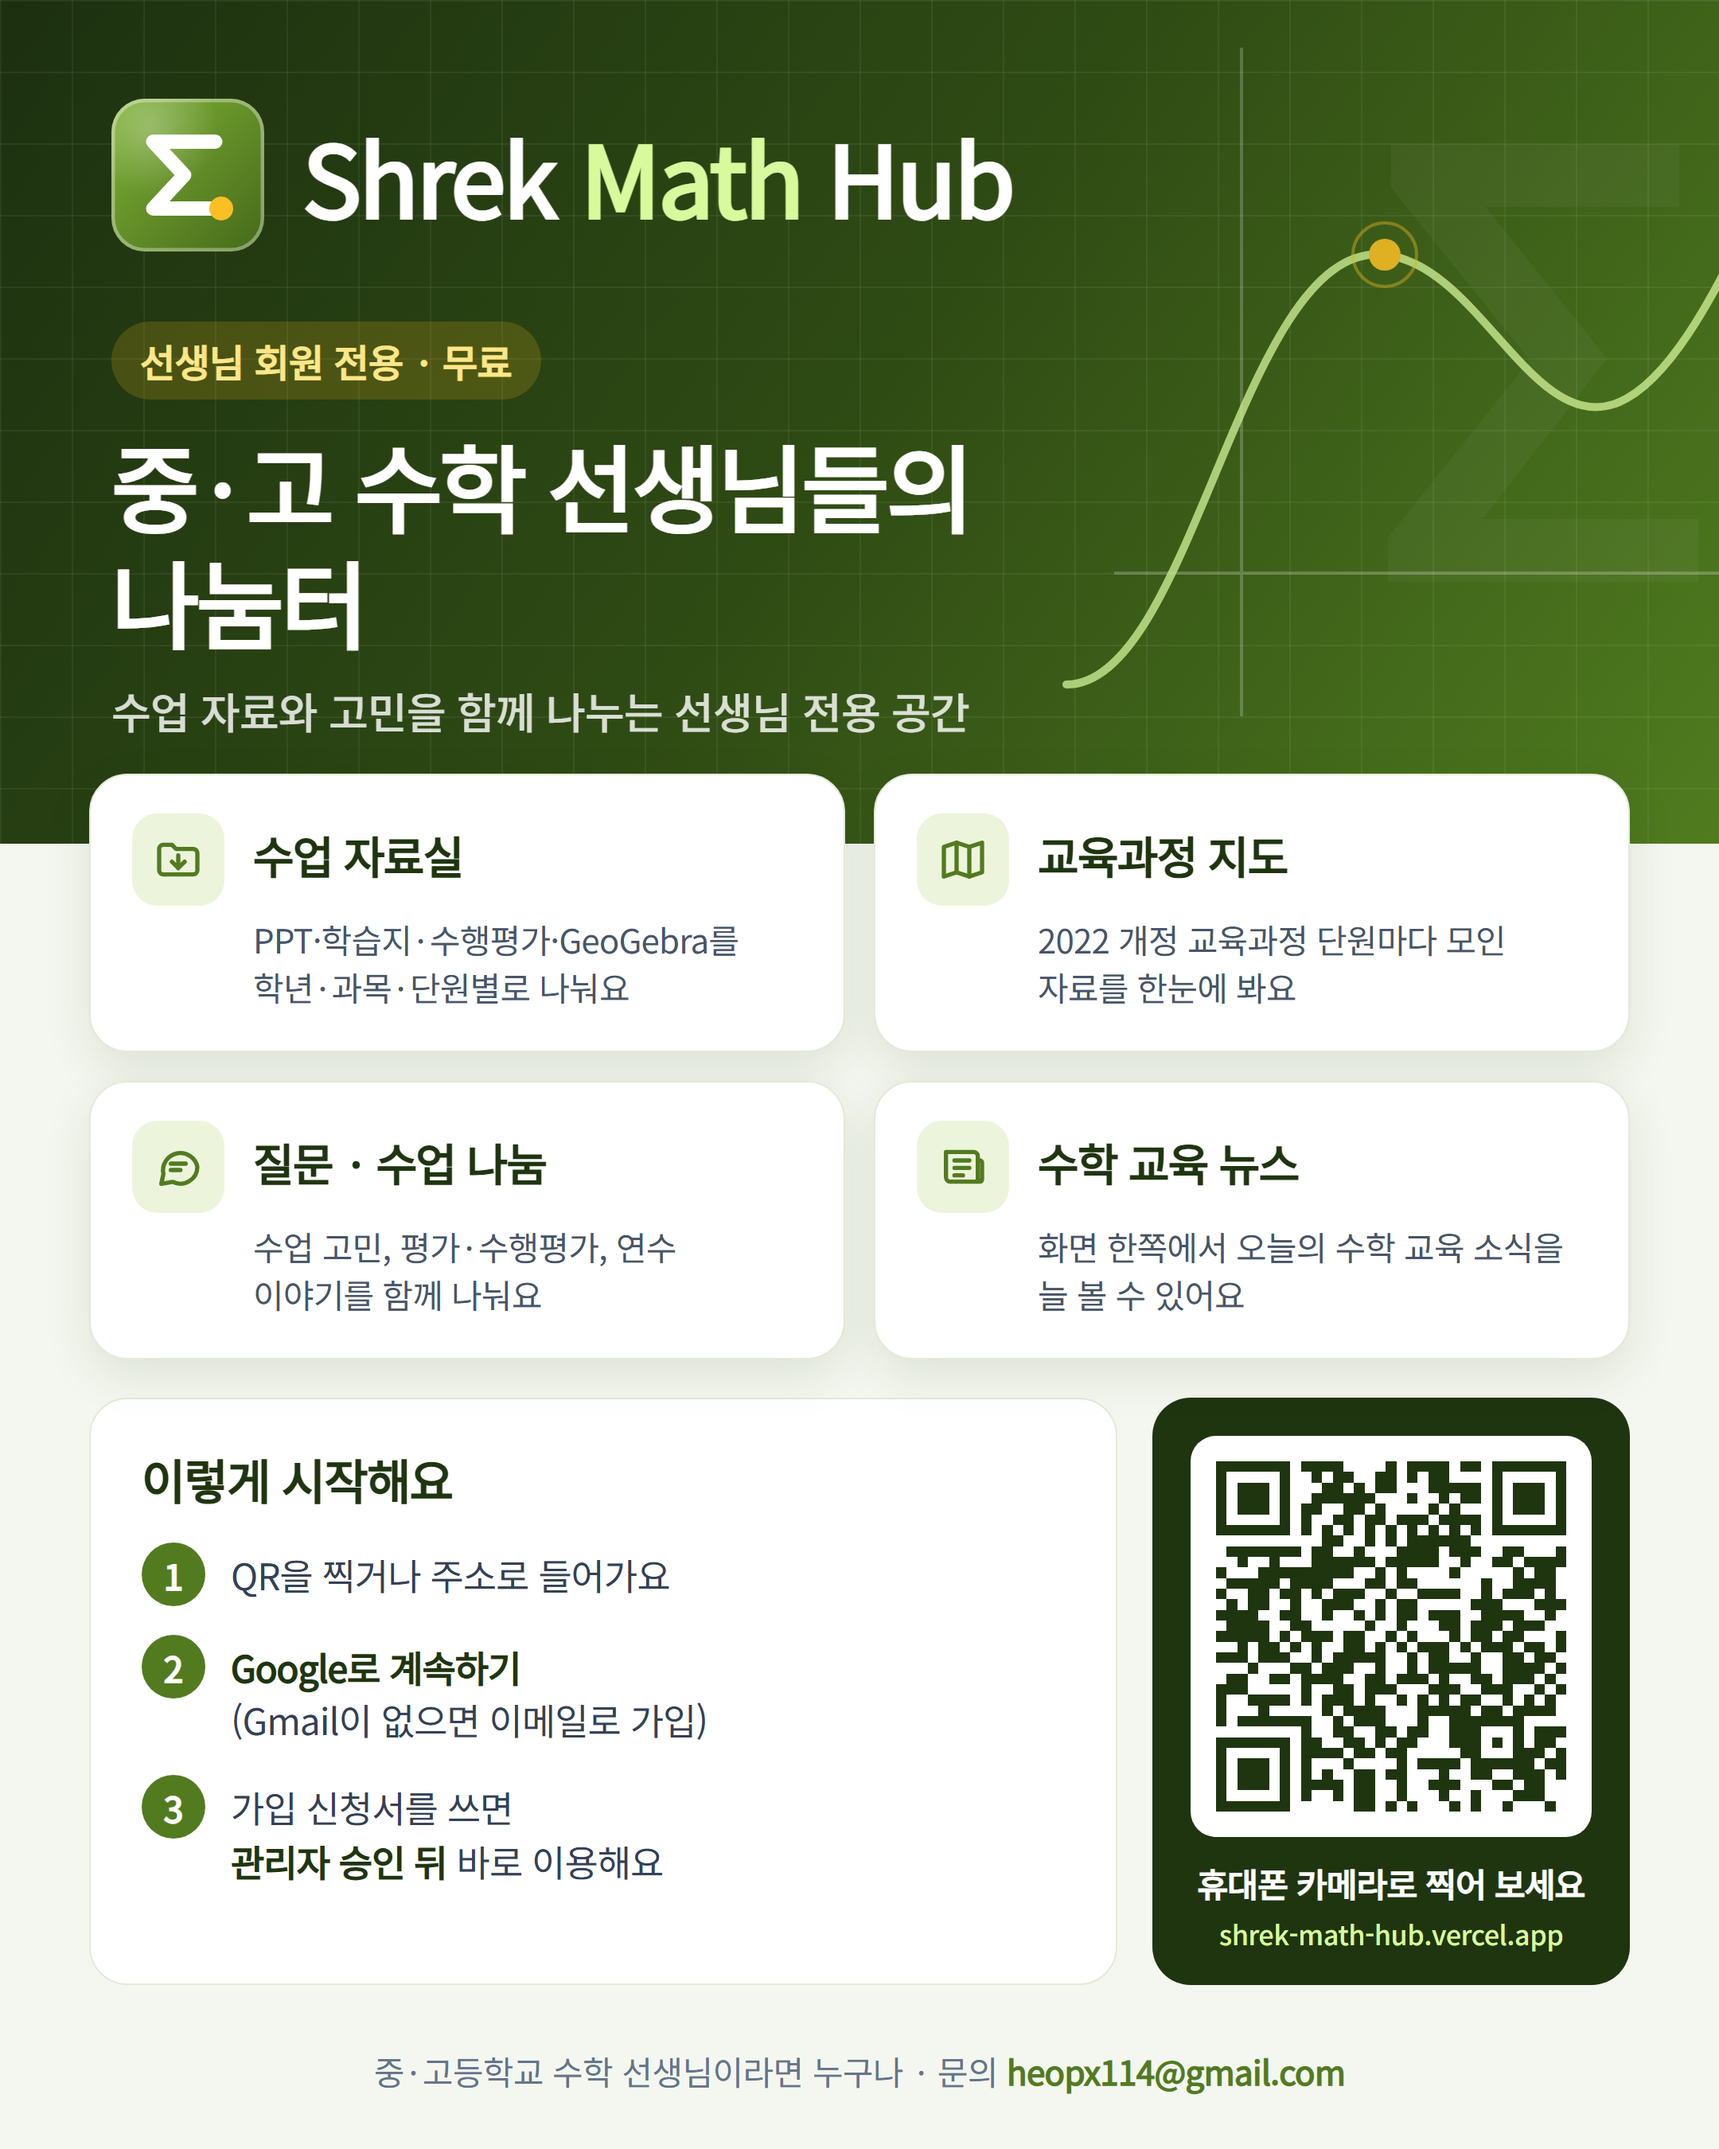
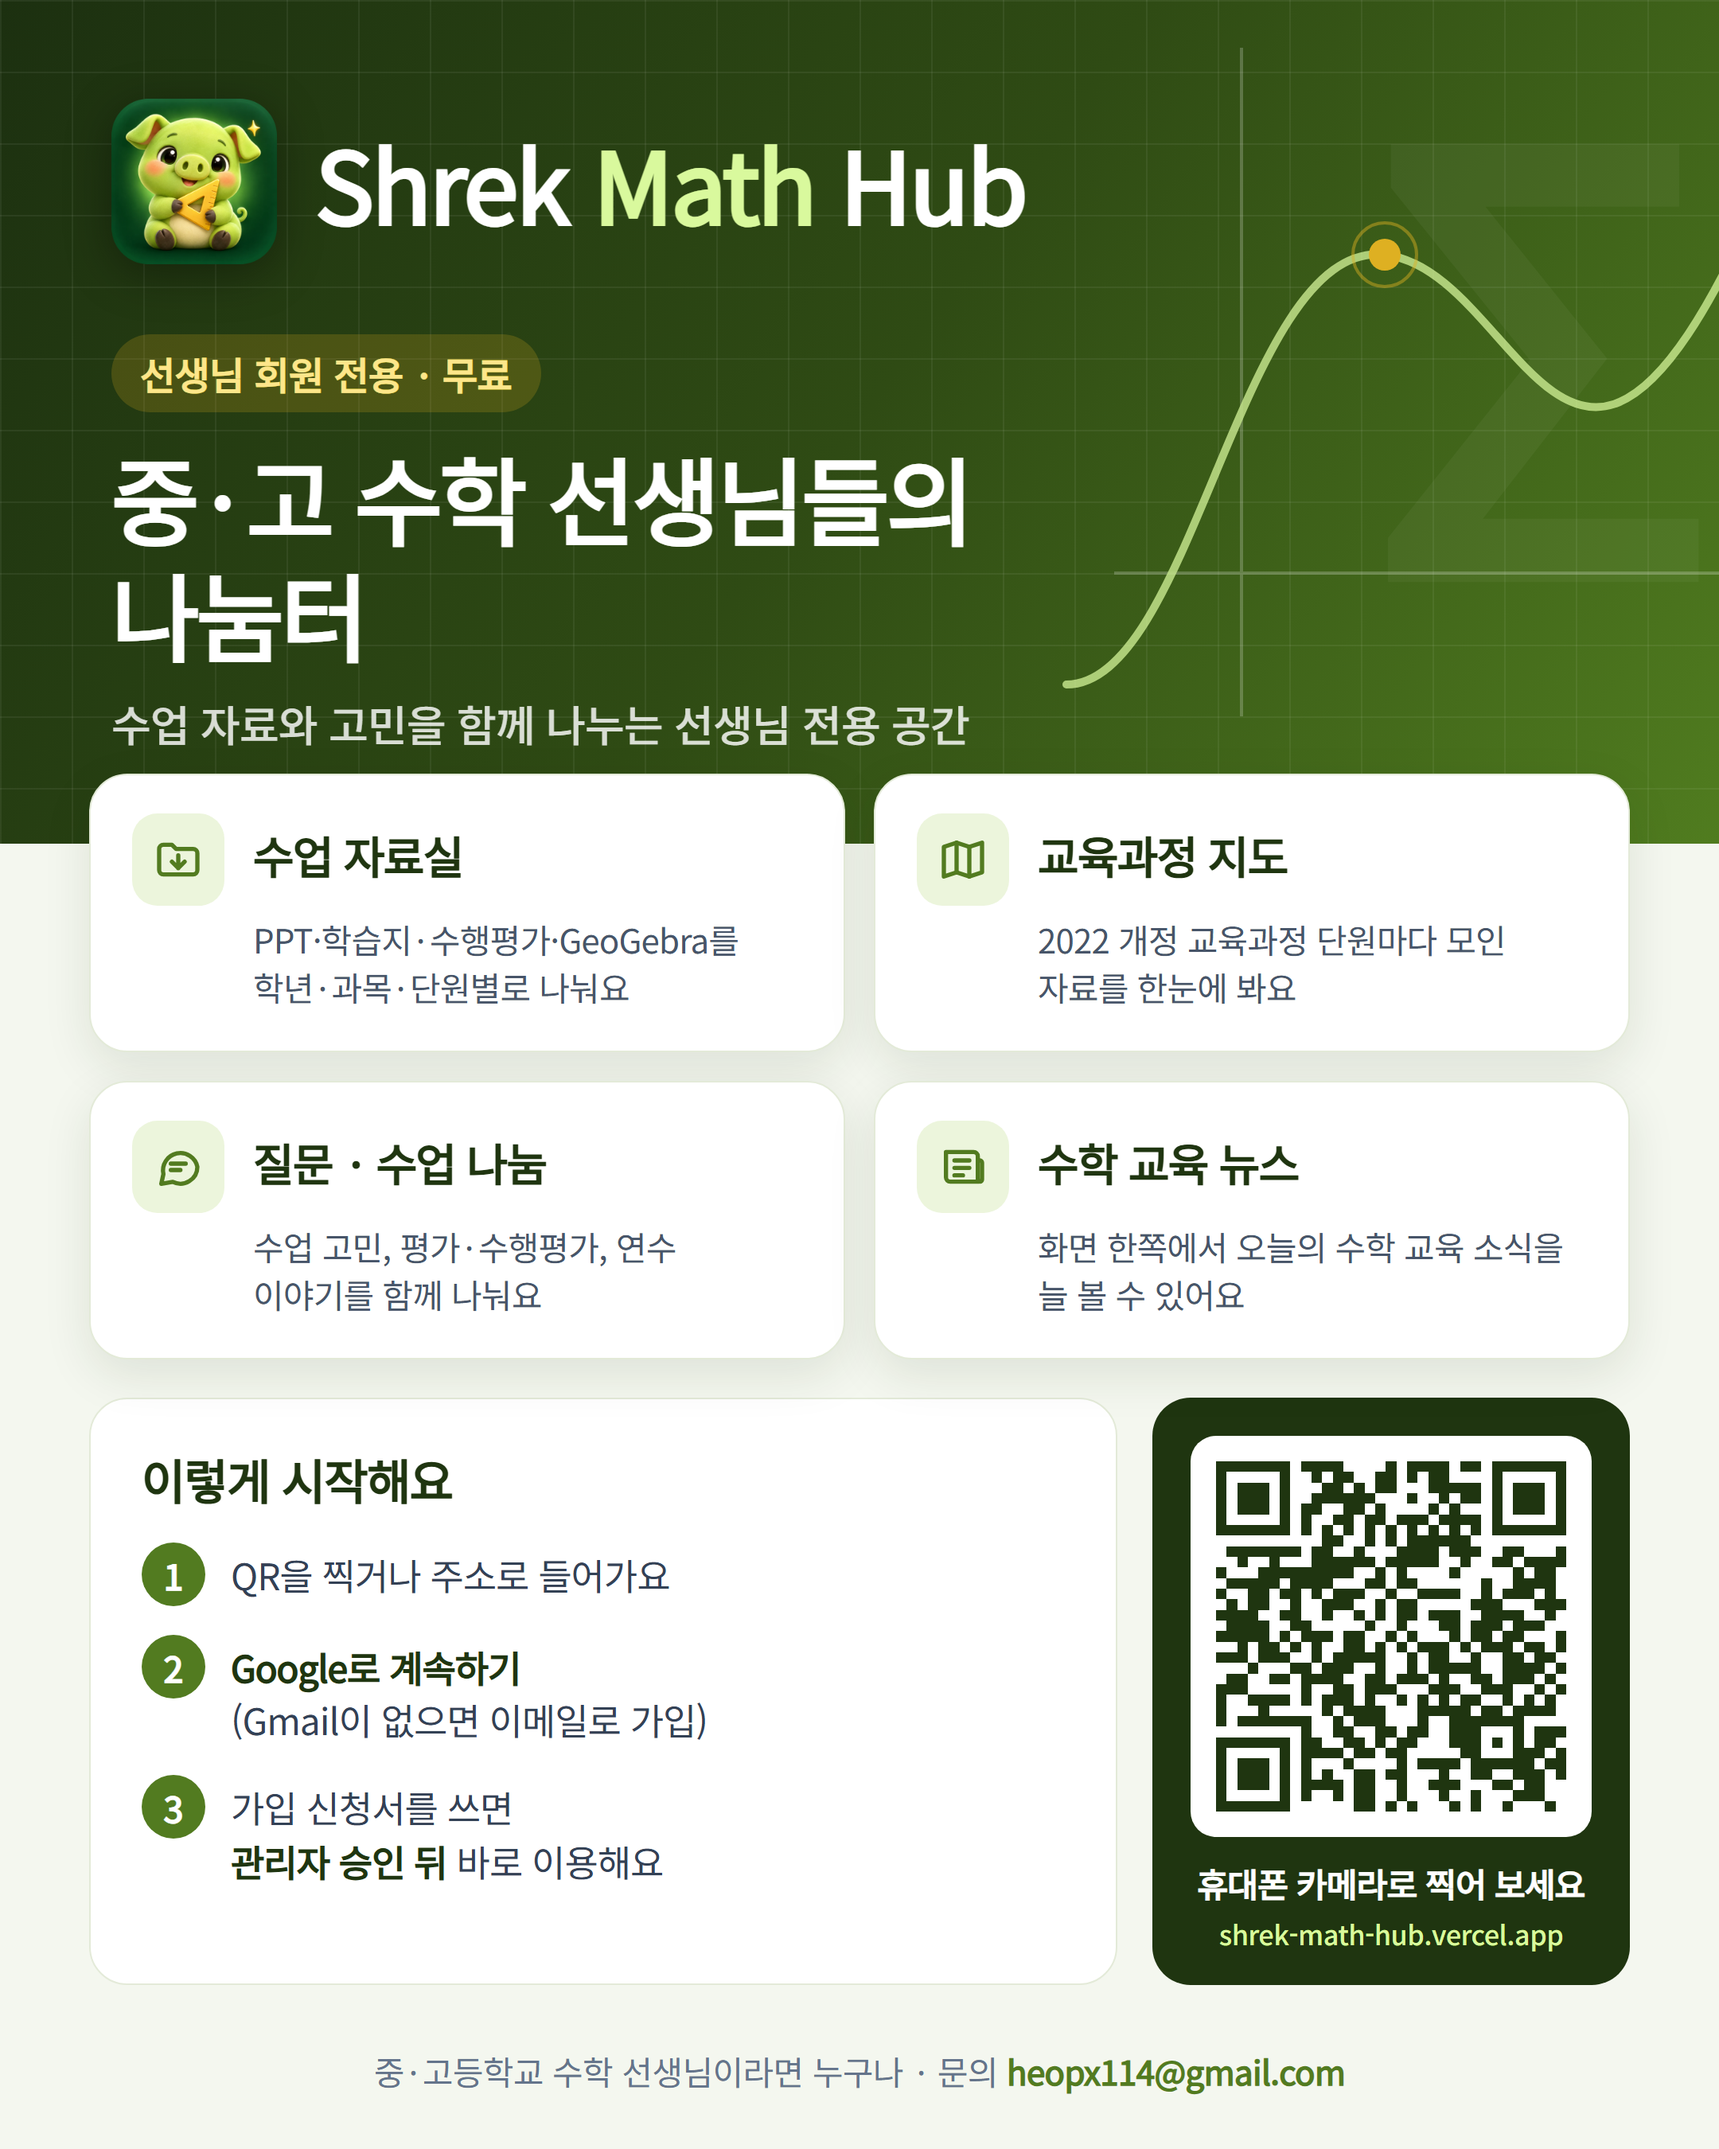
feat: 앱 아이콘을 선생님이 주신 초록 돼지(삼각자) 그림으로 바꿈
- 브라우저 탭(icon.png)·아이폰(apple-icon.png)·안드로이드(public/icons, maskable 포함)·머리글 로고 모두 같은 그림
- 원본의 연한 모서리와 가장자리 테두리는 주변 색으로 메우고, 안드로이드용은 원·둥근 모양으로 잘려도 돼지가 남게 안쪽으로 줄임
- 예전 Σ 아이콘 코드(icon.svg, apple-icon.tsx, pwa-icon 경로, brand-icon.ts) 삭제
- 링크 미리보기·홍보 안내 이미지의 아이콘도 새 그림으로, 원본 그림은 홍보/앱-아이콘-원본.webp

Changed region(s): [[0.062, 0.0311, 0.5894, 0.3422]]

diff --git a/src/app/manifest.ts b/src/app/manifest.ts
@@ -12,10 +12,10 @@ export default function manifest(): MetadataRoute.Manifest {
     theme_color: '#527b20',
     lang: 'ko',
     icons: [
-      { src: '/icon.svg', sizes: 'any', type: 'image/svg+xml' },
-      { src: '/pwa-icon/192', sizes: '192x192', type: 'image/png' },
-      { src: '/pwa-icon/512', sizes: '512x512', type: 'image/png', purpose: 'any' },
-      { src: '/pwa-icon/512', sizes: '512x512', type: 'image/png', purpose: 'maskable' },
+      { src: '/icons/icon-192.png', sizes: '192x192', type: 'image/png', purpose: 'any' },
+      { src: '/icons/icon-512.png', sizes: '512x512', type: 'image/png', purpose: 'any' },
+      // 안드로이드가 원·둥근 모양으로 잘라도 돼지가 남도록 그림을 안쪽으로 줄인 것
+      { src: '/icons/maskable-512.png', sizes: '512x512', type: 'image/png', purpose: 'maskable' },
     ],
   }
 }

diff --git a/src/components/ui.tsx b/src/components/ui.tsx
@@ -55,7 +55,7 @@ export function Logo({ className = '' }: { className?: string }) {
   return (
     <Link href="/" className={`flex items-center gap-2 font-bold text-slate-900 ${className}`}>
       {/* eslint-disable-next-line @next/next/no-img-element */}
-      <img src="/icon.svg" alt="" width={32} height={32} className="h-7 w-7 sm:h-8 sm:w-8" />
+      <img src="/icons/icon-192.png" alt="" width={32} height={32} className="h-7 w-7 sm:h-8 sm:w-8" />
       <span className="whitespace-nowrap text-base tracking-tight sm:text-lg">
         Shrek <span className="text-brand-600">Math</span> Hub
       </span>
